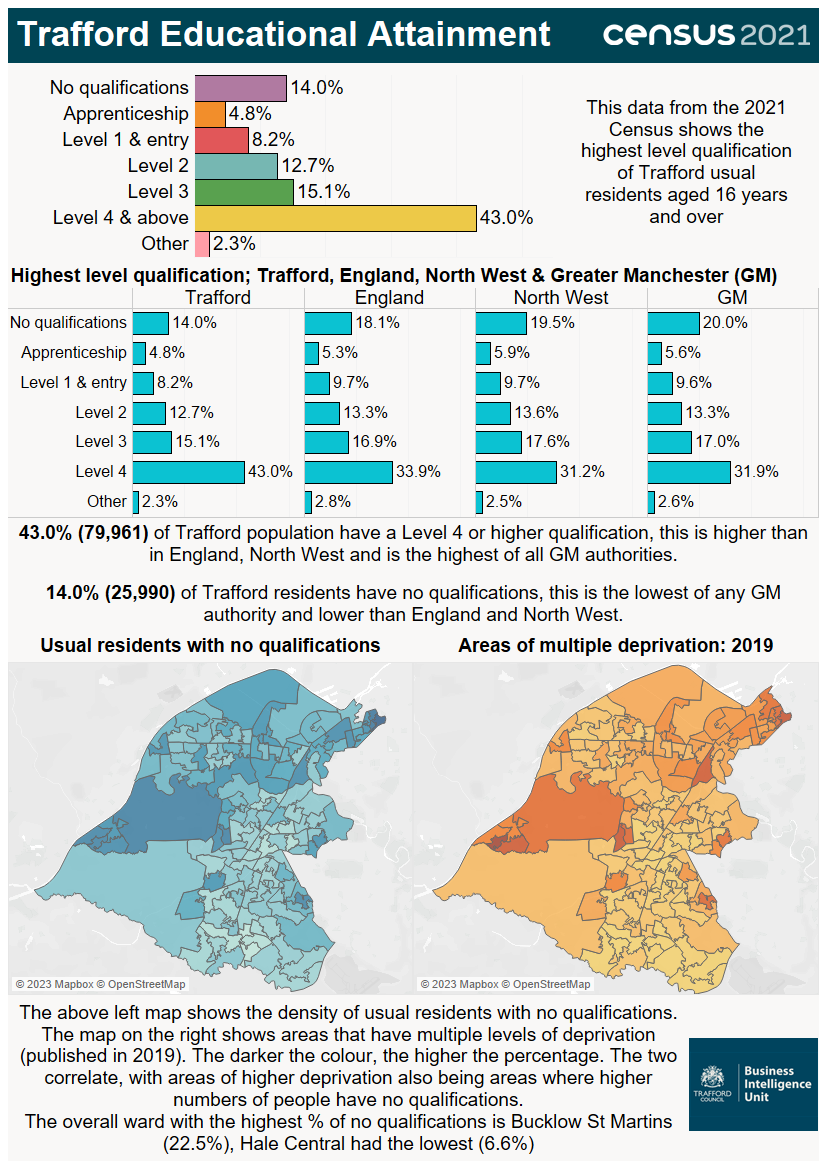
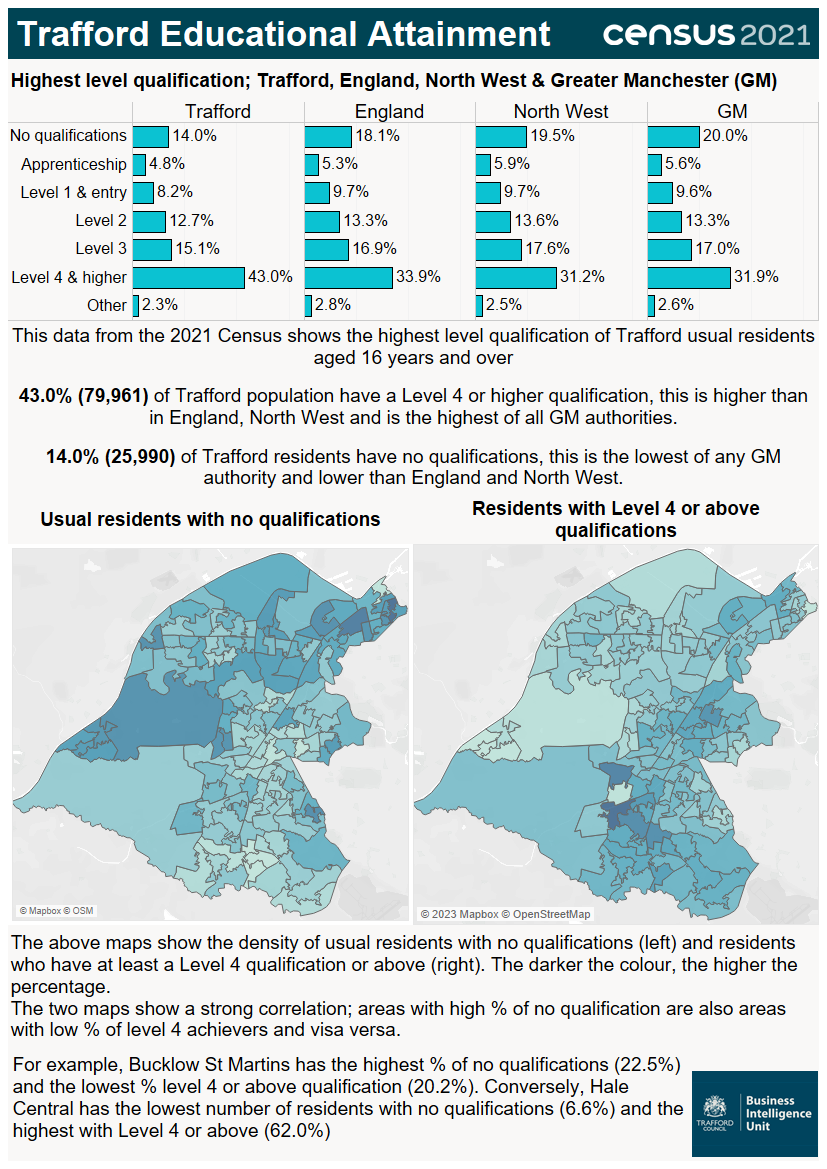
Updated the education accessible graphic page following changes to the infographic and added to the census 2021 collection page.

diff --git a/accessible_graphics/census_2021_educational_attainment_infographic.html b/accessible_graphics/census_2021_educational_attainment_infographic.html
@@ -28,7 +28,7 @@
             <figure>
                 <img src="../images/census_2021_educational_attainment_infographic.png" width="600" alt="Infographic highlighting educational attainment in Trafford from census 2021 data."/>
                 <figcaption>
-                    Infographic containing statistics relating to educational attainment released on <time datetime="2023-01-10">10 January 2023</time> from the census taken on Sunday 21 March 2021. This data shows the highest level of qualification of usual residents aged 16 years and over. No qualifications: Trafford (14.0%), England (18.1%), North West (19.5%), Greater Manchester (20.0%); Apprenticeship: Trafford (4.8%), England (5.3%), North West (5.9%), Greater Manchester (5.6%); Level 1 &amp; entry: Trafford (8.2%), England (9.7%), North West (9.7%), Greater Manchester (9.6%); Level 2: Trafford (12.7%), England (13.3%), North West (13.6%), Greater Manchester (13.3%); Level 3: Trafford (15.1%), England (16.9%), North West (17.6%), Greater Manchester (17.0%); Level 4 &amp; above: Trafford (43.0%), England (33.9%), North West (31.2%), Greater Manchester (31.9%); Other: Trafford (2.3%), England (2.8%), North West (2.5%), Greater Manchester (2.6%). 43.0% (79,961) of Trafford population have a Level 4 or higher qualification, this is higher than in England, North West and is the highest of all Greater Manchester authorities. 14.0% (25,990) of Trafford residents have no qualifications, this is the lowest of any Greater Manchester authority and lower than in England and North West. Education, Skills and Training is one of the domains that contributes to the Index of Multiple Deprivation (IMD). When considering the IMD data from 2019 to the educational attainment data from the census 2021, those areas within Trafford that have higher levels of deprivation also tend to have higher percentages of usual residents with no qualifications. The overall ward with the highest percentage of residents with no qualifications is Bucklow-St Martins (22.5%), whilst Hale Central has the lowest (6.6%).
+                    Infographic containing statistics relating to educational attainment released on <time datetime="2023-01-10">10 January 2023</time> from the census taken on Sunday 21 March 2021. This data shows the highest level of qualification of usual residents aged 16 years and over. No qualifications: Trafford (14.0%), England (18.1%), North West (19.5%), Greater Manchester (20.0%); Apprenticeship: Trafford (4.8%), England (5.3%), North West (5.9%), Greater Manchester (5.6%); Level 1 &amp; entry: Trafford (8.2%), England (9.7%), North West (9.7%), Greater Manchester (9.6%); Level 2: Trafford (12.7%), England (13.3%), North West (13.6%), Greater Manchester (13.3%); Level 3: Trafford (15.1%), England (16.9%), North West (17.6%), Greater Manchester (17.0%); Level 4 &amp; above: Trafford (43.0%), England (33.9%), North West (31.2%), Greater Manchester (31.9%); Other: Trafford (2.3%), England (2.8%), North West (2.5%), Greater Manchester (2.6%). 43.0% (79,961) of Trafford's population have a Level 4 or higher qualification, this is higher than in England, North West and is the highest of all Greater Manchester authorities. 14.0% (25,990) of Trafford residents have no qualifications, this is the lowest of any Greater Manchester authority and lower than in England and North West. When comparing areas within Trafford, areas with high percentages of residents with no qualifications are also areas with low percentages of  level 4 achievers and visa versa. For example, the ward of Bucklow-St Martins has the highest percentage of residents with no qualifications (22.5%) and the lowest percentage of residents with a level 4 or above qualification (20.2%). Conversely, Hale Central ward has the lowest percentage of residents with no qualifications (6.6%) and the highest percentage of residents with a level 4 or above qualification (62.0%).
                 </figcaption>
             </figure>
         </main>

diff --git a/census2021.html b/census2021.html
@@ -169,6 +169,13 @@
                     <h2>Infographics</h2>
 
                     <div class="cardContainer">
+                        <a class="card labBorder notification" href="accessible_graphics/census_2021_educational_attainment_infographic.html">
+                            <span class="filterTags"><!-- population estimates residents people educational attainment qualifications grades school college university apprenticeships students learners infographics LA MSOA LSOA OA --></span>
+                            <h2 class="cardHead themeLink">Education</h2>
+                            <img src="images/census_2021_educational_attainment_infographic.png" alt=". Infographic highlighting educational attainment in Trafford from census 2021 data." style="width: 99%;"/>
+                            <span class="badge highContrastBlock" aria-label="This item is new" data-added="2023-02-01"><span aria-hidden="true">new</span></span>
+                        </a>
+
                         <a class="card labBorder notification" href="accessible_graphics/census_2021_gender_identity_infographic.html">
                             <span class="filterTags"><!-- population estimates residents people gender identity infographics LA MSOA --></span>
                             <h2 class="cardHead themeLink">Gender Identity</h2>
